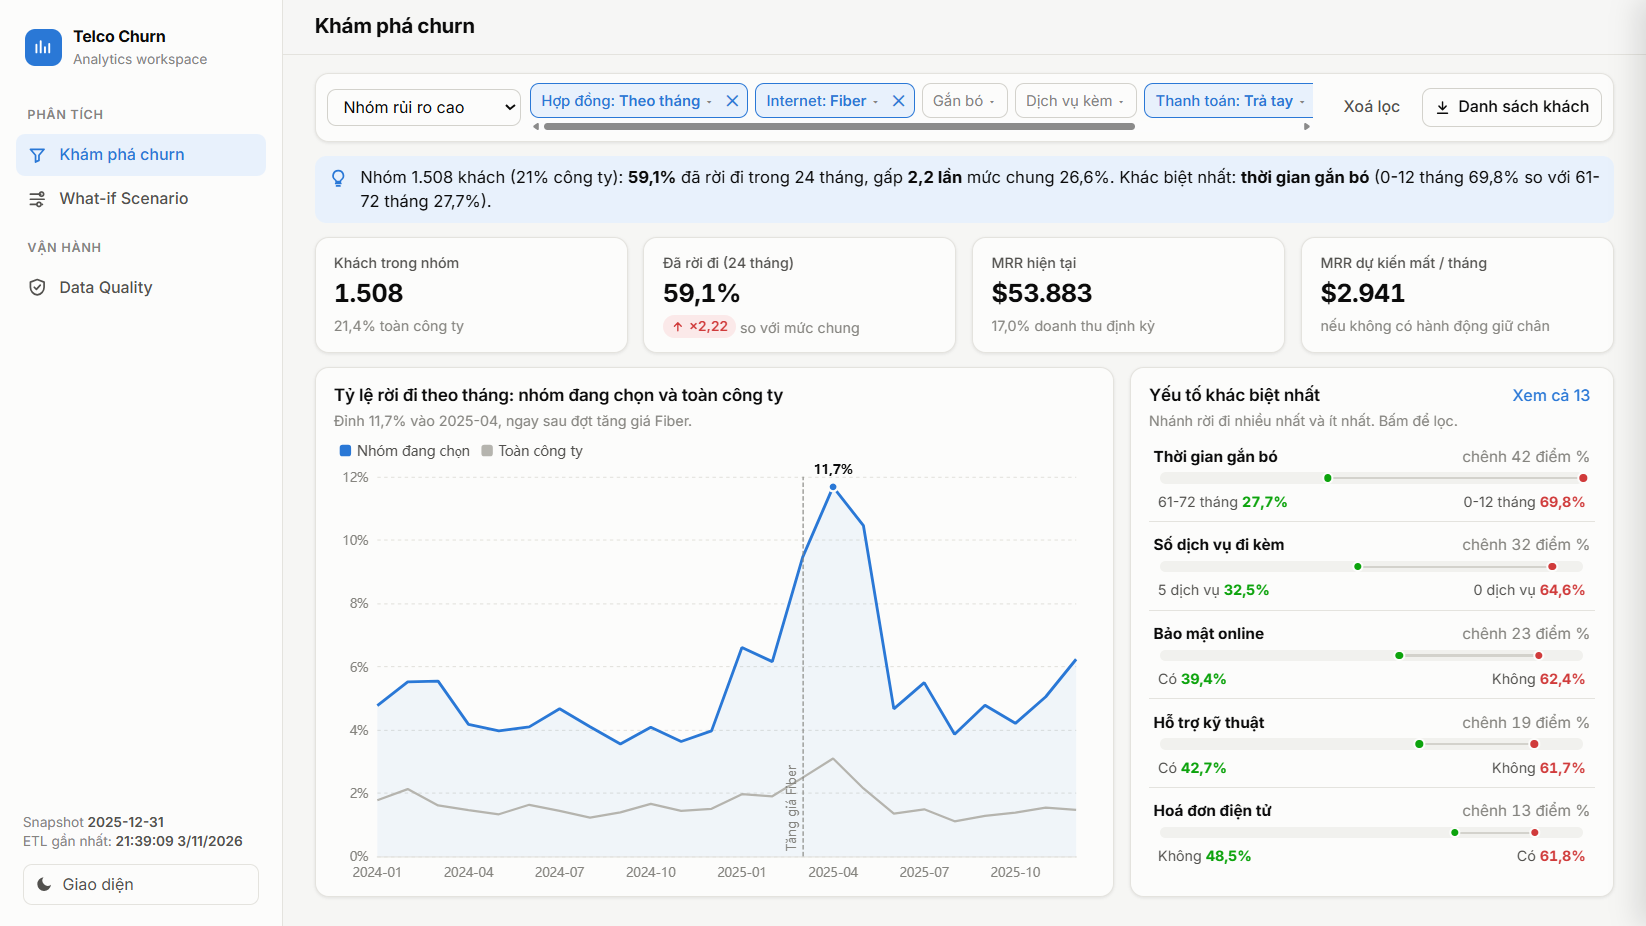
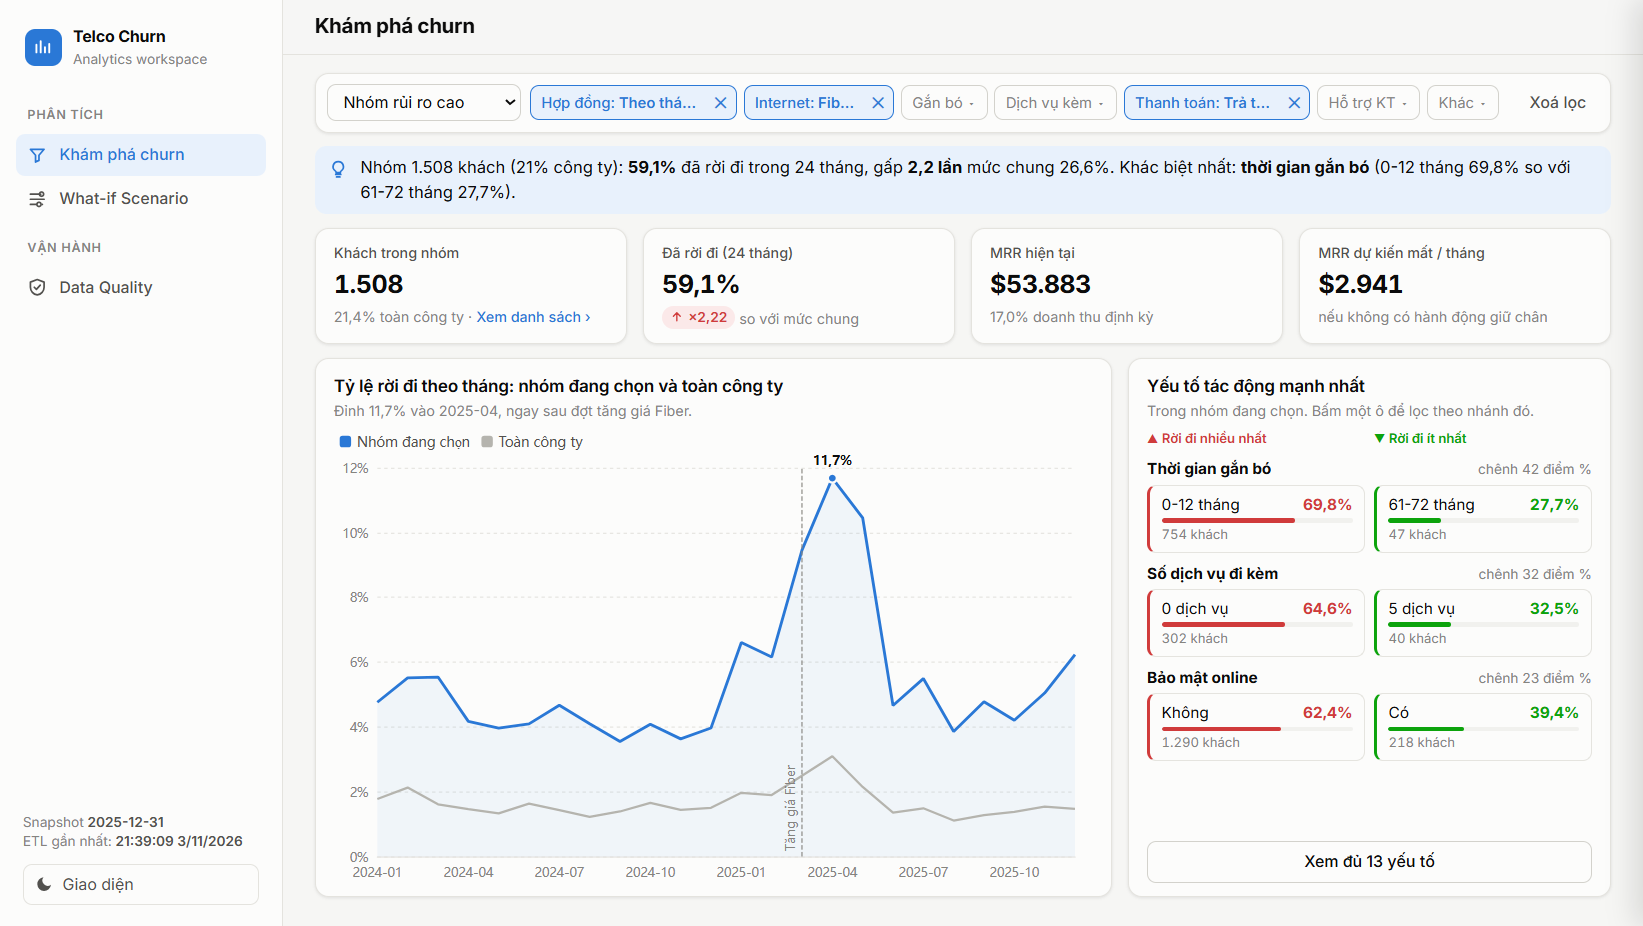
Explore UX: one-row filter bar without scrolling, clickable factor cards
- Filter pills keep a stable width (single value shows its name, several show a count); only active pills shrink with ellipsis, full values in tooltip and dropdown; customer list moved into the customer KPI card
- Factor panel redesigned: each factor has two clear buttons (most / least churn) with rate, customer count, bar and "+ Lọc" on hover; number of factors auto-fits the panel height; full 13-factor view via a footer button
- Refresh README screenshot and dashboard spec

diff --git a/src/dashboard/static/app.js b/src/dashboard/static/app.js
@@ -135,7 +135,7 @@
     'Bank transfer (automatic)': 'Chuyển khoản tự động', 'Credit card (automatic)': 'Thẻ tín dụng tự động',
   };
   const MIN_GROUP = 30;          // nhánh nhỏ hơn mức này thì tỷ lệ dao động mạnh: hiển thị mờ, không xếp hạng
-  const TOP_FACTORS = 5;
+  const TOP_FACTORS = 6;   // tối đa; số thực hiển thị tự co theo chiều cao panel (fitTopFactors)
 
   function valueLabel(factor, v) {
     if (factor === 'addons') return v === 'No internet service' ? 'Không dùng internet' : `${v} dịch vụ`;
@@ -182,7 +182,6 @@
         <div class="pills" id="exPills"></div>
         <div class="spacer"></div>
         <button class="btn ghost no-print" id="exClear" type="button">Xoá lọc</button>
-        <button class="btn no-print" id="exCustomers" type="button" title="Danh sách khách đang hoạt động trong nhóm, xuất CSV">${ICON.download}Danh sách khách</button>
       </div>
       <div class="headline" id="exHeadline"></div>
       <div class="grid kpis4" id="exKpis"></div>
@@ -193,10 +192,10 @@
           <div class="chart fill" id="ex-churn"></div>
         </div>
         <div class="card flex-card">
-          <div class="card-head"><div><h3 class="card-title">Yếu tố khác biệt nhất</h3>
-            <div class="card-sub">Nhánh rời đi nhiều nhất và ít nhất. Bấm để lọc.</div></div>
-            <button class="btn link no-print" id="exAll" type="button">Xem cả 13</button></div>
+          <div class="card-head"><div><h3 class="card-title">Yếu tố tác động mạnh nhất</h3>
+            <div class="card-sub">Trong nhóm đang chọn. Bấm một ô để lọc theo nhánh đó.</div></div></div>
           <div class="top-factors" id="exTop"></div>
+          <button class="btn block no-print" id="exAll" type="button">Xem đủ 13 yếu tố</button>
         </div>
       </div>`;
     mountChart('ex-churn', {});
@@ -212,7 +211,7 @@
       if (b) openPopover(b.dataset.pop, b);
     });
     $('#exClear').addEventListener('click', () => { ex.filters = {}; onFiltersChanged(); });
-    $('#exCustomers').addEventListener('click', openCustomerList);
+    $('#exKpis').addEventListener('click', (e) => { if (e.target.closest('#exCustomers')) openCustomerList(); });
     $('#exAll').addEventListener('click', openAllFactors);
     $('#exTop').addEventListener('click', (e) => {
       const v = e.target.closest('[data-f]');
@@ -230,8 +229,10 @@
       + PRESETS.map((p, i) => `<option value="${i}" ${i === match ? 'selected' : ''} title="${esc(p.hint || '')}">${esc(p.label)}</option>`).join('');
     const pill = (key, label) => {
       const vals = ex.filters[key] || [];
-      const text = vals.map((v) => valueLabel(key, v)).join(', ');
-      return `<span class="pill ${vals.length ? 'on' : ''}"><button type="button" data-pop="${key}" aria-haspopup="true">
+      // Một giá trị thì hiện tên, nhiều giá trị thì hiện số lượng: nút giữ độ rộng ổn định, thanh lọc không phải cuộn.
+      const text = vals.length === 1 ? valueLabel(key, vals[0]) : vals.length ? `${vals.length} lựa chọn` : '';
+      const full = vals.map((v) => valueLabel(key, v)).join(', ');
+      return `<span class="pill ${vals.length ? 'on' : ''}" title="${esc(full || 'Tất cả')}"><button type="button" data-pop="${key}" aria-haspopup="true">
         <span class="pill-k">${esc(label)}${text ? ':' : ''}</span> ${esc(text)} <span class="caret">▾</span></button>${vals.length ? `<button type="button" class="pill-x" data-rm="${key}" aria-label="Bỏ lọc ${esc(label)}">✕</button>` : ''}</span>`;
     };
     const others = ex.catalog.filter((c) => !MAIN_FACTORS.includes(c.key));
@@ -331,30 +332,36 @@
       + `${k.sel_customers < 100 ? ` ${badge('warn', 'nhóm dưới 100 khách, xem như tham khảo')}` : ''}</span>`;
 
     $('#exKpis').innerHTML = [
-      kpiCard('Khách trong nhóm', fmt.int(k.sel_customers), filtered ? `${fmt.pct(k.sel_customers / k.all_customers)} toàn công ty` : 'có tính cước trong 24 tháng'),
+      kpiCard('Khách trong nhóm', fmt.int(k.sel_customers), `${filtered ? fmt.pct(k.sel_customers / k.all_customers) + ' toàn công ty' : 'có tính cước'} · <button type="button" class="inline-link" id="exCustomers">Xem danh sách ›</button>`),
       kpiCard('Đã rời đi (24 tháng)', fmt.pct(selRate),
         filtered ? `${badge(lift > 1.05 ? 'bad' : lift < 0.95 ? 'good' : 'neutral', '×' + fmt.num(lift, 2), lift > 1.05 ? 'up' : lift < 0.95 ? 'down' : null)} so với mức chung` : `${fmt.int(k.all_churners)} khách · ${fmt.pct(selMonthly, 2)}/tháng`),
       kpiCard('MRR hiện tại', fmt.usd(selMrr), filtered ? `${fmt.pct(k.all_mrr ? selMrr / k.all_mrr : 0)} doanh thu định kỳ` : `${fmt.int(k.sel_active)} khách còn hoạt động`),
       kpiCard('MRR dự kiến mất / tháng', fmt.usd(selLoss), 'nếu không có hành động giữ chân'),
     ].join('');
 
-    const maxRate = Math.max(0.05, ...ranked.slice(0, TOP_FACTORS).map((i) => i.hi.rate));
-    $('#exTop').innerHTML = ranked.length ? ranked.slice(0, TOP_FACTORS).map((i) => `
+    const opt = (i, r, kind) => `
+      <button type="button" class="tf-opt ${kind}" data-f="${esc(i.f.key)}" data-v="${esc(r.value)}"
+        title="Lọc nhóm: ${esc(i.f.label)} = ${esc(valueLabel(i.f.key, r.value))}">
+        <span class="tf-main"><span class="tf-name">${esc(valueLabel(i.f.key, r.value))}</span><b class="num">${fmt.pct(r.rate)}</b></span>
+        <span class="tf-bar"><i style="width:${Math.max(2, 100 * r.rate).toFixed(1)}%"></i></span>
+        <span class="tf-meta"><span class="num">${fmt.int(r.customers)} khách</span><span class="tf-add">＋ Lọc</span></span>
+      </button>`;
+    $('#exTop').innerHTML = ranked.length ? '<div class="tf-cols"><span>▲ Rời đi nhiều nhất</span><span>▼ Rời đi ít nhất</span></div>' + ranked.slice(0, TOP_FACTORS).map((i) => `
       <div class="tf">
-        <div class="tf-head"><b>${esc(i.f.label)}</b><span class="muted num">chênh ${fmt.num(i.spread * 100, 0)} điểm %</span></div>
-        <div class="tf-track" aria-hidden="true">
-          <span class="tf-line" style="left:${(100 * i.lo.rate / maxRate).toFixed(1)}%;width:${(100 * (i.hi.rate - i.lo.rate) / maxRate).toFixed(1)}%"></span>
-          <span class="tf-dot lo" style="left:${(100 * i.lo.rate / maxRate).toFixed(1)}%"></span>
-          <span class="tf-dot hi" style="left:${(100 * i.hi.rate / maxRate).toFixed(1)}%"></span>
-        </div>
-        <div class="tf-vals">
-          <button type="button" class="tf-v lo" data-f="${esc(i.f.key)}" data-v="${esc(i.lo.value)}">${esc(valueLabel(i.f.key, i.lo.value))} <b class="num">${fmt.pct(i.lo.rate)}</b></button>
-          <button type="button" class="tf-v hi" data-f="${esc(i.f.key)}" data-v="${esc(i.hi.value)}">${esc(valueLabel(i.f.key, i.hi.value))} <b class="num">${fmt.pct(i.hi.rate)}</b></button>
-        </div>
+        <div class="tf-head"><b>${esc(i.f.label)}</b><span class="tf-gap">chênh ${fmt.num(i.spread * 100, 0)} điểm %</span></div>
+        <div class="tf-opts">${opt(i, i.hi, 'hi')}${opt(i, i.lo, 'lo')}</div>
       </div>`).join('') : '<p class="muted">Nhóm quá nhỏ để so sánh tiếp.</p>';
+    fitTopFactors();
 
     drawChurnChart(d, filtered);
     resizeChartsSoon();
+  }
+
+  // Bỏ bớt yếu tố cuối cho tới khi danh sách vừa khung panel: không cắt dở, không thanh cuộn.
+  function fitTopFactors() {
+    const el = $('#exTop');
+    if (!el) return;
+    while (el.scrollHeight > el.clientHeight + 1 && el.querySelectorAll('.tf').length > 1) el.querySelector('.tf:last-of-type').remove();
   }
 
   // Khung biểu đồ co giãn theo chiều cao còn lại của trang, nên phải đo lại sau khi nội dung phía trên đã vẽ xong.
@@ -664,7 +671,7 @@
   const pageFromHash = () => location.hash.slice(1).split('?')[0];
   window.addEventListener('hashchange', () => { if (pageFromHash() !== state.page) show(pageFromHash()); });
   const resizeCharts = () => Object.values(state.charts).forEach((c) => c.resize());
-  window.addEventListener('resize', resizeCharts);
+  window.addEventListener('resize', () => { resizeCharts(); if (state.page === 'explore' && ex.last) drawExplore(ex.last); });
   // Khi in, khung trang đổi kích thước (ẩn sidebar, khổ A4) nên biểu đồ phải vẽ lại theo khung mới.
   window.addEventListener('beforeprint', resizeCharts);
   window.addEventListener('afterprint', resizeCharts);

diff --git a/src/dashboard/static/app.css b/src/dashboard/static/app.css
@@ -395,3 +395,52 @@ input[type="range"] { width: 100%; accent-color: var(--accent); }
 /* Nhiều bộ lọc cùng bật thì hàng nút cuộn ngang thay vì bị che, để trang vẫn giữ một hàng. */
 .filterbar .pills { overflow-x: auto; scrollbar-width: thin; padding-bottom: 2px; }
 .filterbar .select { width: 170px; }
+
+/* Thanh lọc luôn một hàng, không thanh cuộn: nút có độ rộng tối đa cố định. */
+.filterbar .pills { overflow: hidden; flex-wrap: nowrap; padding-bottom: 0; }
+.pill { flex: none; }
+.pill button { max-width: 150px; }
+.inline-link { border: 0; background: none; padding: 0; color: var(--accent); cursor: pointer; font: inherit; font-weight: 500; }
+.inline-link:hover { text-decoration: underline; }
+
+/* Panel yếu tố tác động: mỗi nhánh là một ô bấm rõ ràng. */
+.top-factors { gap: 10px; overflow: hidden; }
+.tf { padding: 0; border: 0; }
+.tf-head { display: flex; justify-content: space-between; align-items: baseline; margin-bottom: 6px; font-size: 13.5px; }
+.tf-gap { font-size: 12px; color: var(--text-3); }
+.tf-opts { display: grid; grid-template-columns: 1fr 1fr; gap: 8px; }
+.tf-opt {
+  display: flex; flex-direction: column; gap: 3px; text-align: left; cursor: pointer; font: inherit; color: var(--text);
+  border: 1px solid var(--border); border-left-width: 3px; border-radius: 8px; background: var(--surface); padding: 7px 10px;
+  transition: background .12s, border-color .12s, box-shadow .12s;
+}
+.tf-opt.hi { border-left-color: var(--critical); }
+.tf-opt.lo { border-left-color: var(--good); }
+.tf-opt:hover { background: var(--surface-2); box-shadow: var(--shadow); }
+.tf-opt:focus-visible { outline: 2px solid var(--accent); outline-offset: 1px; }
+.tf-tag { font-size: 11px; color: var(--text-3); text-transform: uppercase; letter-spacing: .03em; }
+.tf-main { display: flex; justify-content: space-between; gap: 6px; align-items: baseline; font-size: 13.5px; }
+.tf-name { overflow: hidden; text-overflow: ellipsis; white-space: nowrap; }
+.tf-opt.hi .tf-main b { color: var(--critical); }
+.tf-opt.lo .tf-main b { color: var(--good); }
+.tf-bar { height: 4px; border-radius: 2px; background: var(--surface-2); overflow: hidden; }
+.tf-bar i { display: block; height: 100%; border-radius: 2px; }
+.tf-opt.hi .tf-bar i { background: var(--critical); }
+.tf-opt.lo .tf-bar i { background: var(--good); }
+.tf-meta { display: flex; justify-content: space-between; font-size: 11.5px; color: var(--text-3); }
+.tf-add { color: var(--accent); font-weight: 600; opacity: 0; transition: opacity .12s; }
+.tf-opt:hover .tf-add, .tf-opt:focus-visible .tf-add { opacity: 1; }
+.btn.block { width: 100%; justify-content: center; margin-top: 10px; flex: none; }
+
+.pill button { max-width: 190px; }
+.tf-cols { display: grid; grid-template-columns: 1fr 1fr; gap: 8px; font-size: 11.5px; color: var(--text-3); font-weight: 600; }
+.tf-cols span:first-child { color: var(--critical); }
+.tf-cols span:last-child { color: var(--good); }
+.top-factors { gap: 8px; }
+.tf-head { margin-bottom: 4px; }
+.tf-opt { gap: 2px; padding: 6px 10px; }
+/* Không đủ chỗ thì các nút co đều và cắt chữ bằng dấu ba chấm, thay vì bị che hay phải cuộn. */
+.pill { flex: 0 1 auto; min-width: 0; }
+.pill > button:first-child { min-width: 0; flex: 1 1 auto; }
+.pill .pill-x { flex: none; }
+.pill:not(.on) { flex-shrink: 0; }

diff --git a/docs/03_dashboard_spec.md b/docs/03_dashboard_spec.md
@@ -23,18 +23,18 @@ bằng đúng chiều cao cửa sổ.
 ## 2. Trang Khám phá
 
 ```
-┌ Góc nhìn ▾ │ Hợp đồng ▾ │ Internet ▾ │ Gắn bó ▾ │ Dịch vụ kèm ▾ │ Thanh toán ▾ │ Hỗ trợ KT ▾ │ Khác ▾ │ Xoá lọc │ Danh sách khách ┐
+┌ Góc nhìn ▾ │ Hợp đồng ▾ │ Internet ▾ │ Gắn bó ▾ │ Dịch vụ kèm ▾ │ Thanh toán ▾ │ Hỗ trợ KT ▾ │ Khác ▾ │ Xoá lọc ┐
 ├ 1 câu kết luận (tự sinh)                                                                                                  ┤
-├ Khách trong nhóm │ Đã rời đi (24 tháng) │ MRR hiện tại │ MRR dự kiến mất / tháng                                          ┤
-├ Tỷ lệ rời đi theo tháng (nhóm vs toàn công ty, hoặc vs chỉ tiêu)   │ Top 5 yếu tố khác biệt nhất (bấm để lọc)            ┘
+├ Khách trong nhóm (Xem danh sách ›) │ Đã rời đi (24 tháng) │ MRR hiện tại │ MRR dự kiến mất / tháng                     ┤
+├ Tỷ lệ rời đi theo tháng (nhóm vs toàn công ty, hoặc vs chỉ tiêu)   │ Yếu tố tác động mạnh nhất: ô ▲ / ô ▼ bấm để lọc      ┘
 ```
 
-- **Bộ lọc:** 6 yếu tố chính thành nút thả xuống, 7 yếu tố còn lại gom trong "Khác". Cùng một yếu tố chọn nhiều giá trị là HOẶC, khác yếu tố là VÀ. Trong bảng chọn, mỗi lựa chọn hiện luôn số khách và tỷ lệ rời đi theo các bộ lọc còn lại, nên chưa bấm đã biết tác động. Bộ lọc lưu trên URL để gửi link.
+- **Bộ lọc:** luôn một hàng, không thanh cuộn. 6 yếu tố chính thành nút thả xuống, 7 yếu tố còn lại gom trong "Khác". Nút đang lọc hiện tên giá trị (nhiều giá trị thì hiện "2 lựa chọn"); thiếu chỗ thì chỉ nút đang lọc rút gọn bằng dấu ba chấm, rê chuột để xem đủ. Cùng một yếu tố chọn nhiều giá trị là HOẶC, khác yếu tố là VÀ. Trong bảng chọn, mỗi lựa chọn hiện luôn số khách và tỷ lệ rời đi theo các bộ lọc còn lại, nên chưa bấm đã biết tác động. Bộ lọc lưu trên URL để gửi link.
 - **Góc nhìn có sẵn:** Toàn công ty · Nhóm rủi ro cao (hợp đồng tháng, Fiber, trả tay) · Khách năm đầu · Khách Fiber · Không dùng dịch vụ kèm · Hợp đồng dài hạn.
 - **Câu kết luận tự sinh:** quy mô nhóm, tỷ lệ rời đi so với mức chung, và yếu tố khác biệt nhất. Nhóm dưới 100 khách có cảnh báo mẫu nhỏ.
 - **Biểu đồ:** tỷ lệ rời đi theo tháng, đánh dấu đỉnh và mốc tăng giá Fiber. Không lọc thì so với chỉ tiêu Finance; có lọc thì so với toàn công ty.
-- **Top 5 yếu tố khác biệt nhất:** mỗi yếu tố hiện nhánh rời đi ít nhất và nhiều nhất. Bấm vào một nhánh là thêm nhánh đó vào bộ lọc. Không xếp hạng nhánh dưới 30 khách, và bỏ "Không dùng internet" ở các yếu tố phụ thuộc internet (vì nó chỉ lặp lại yếu tố Loại internet).
-- **Chi tiết khi cần:** "Xem cả 13" mở đủ 13 yếu tố; "Danh sách khách" mở danh sách khách đang hoạt động trong nhóm (tìm kiếm, sắp xếp, xuất CSV).
+- **Yếu tố tác động mạnh nhất:** mỗi yếu tố có hai ô bấm, ▲ nhánh rời đi nhiều nhất (đỏ) và ▼ ít nhất (xanh). Mỗi ô ghi tỷ lệ, số khách, thanh tỷ lệ; rê chuột hiện "＋ Lọc". Số yếu tố hiển thị tự co theo chiều cao màn hình nên không bị cắt và không phải cuộn. Không xếp hạng nhánh dưới 30 khách, và bỏ "Không dùng internet" ở các yếu tố phụ thuộc internet (vì nó chỉ lặp lại yếu tố Loại internet).
+- **Chi tiết khi cần:** nút "Xem đủ 13 yếu tố" ở chân panel; "Xem danh sách ›" trong thẻ Khách trong nhóm mở danh sách khách đang hoạt động (tìm kiếm, sắp xếp, xuất CSV).
 
 ## 3. Hiệu năng truy vấn
 
